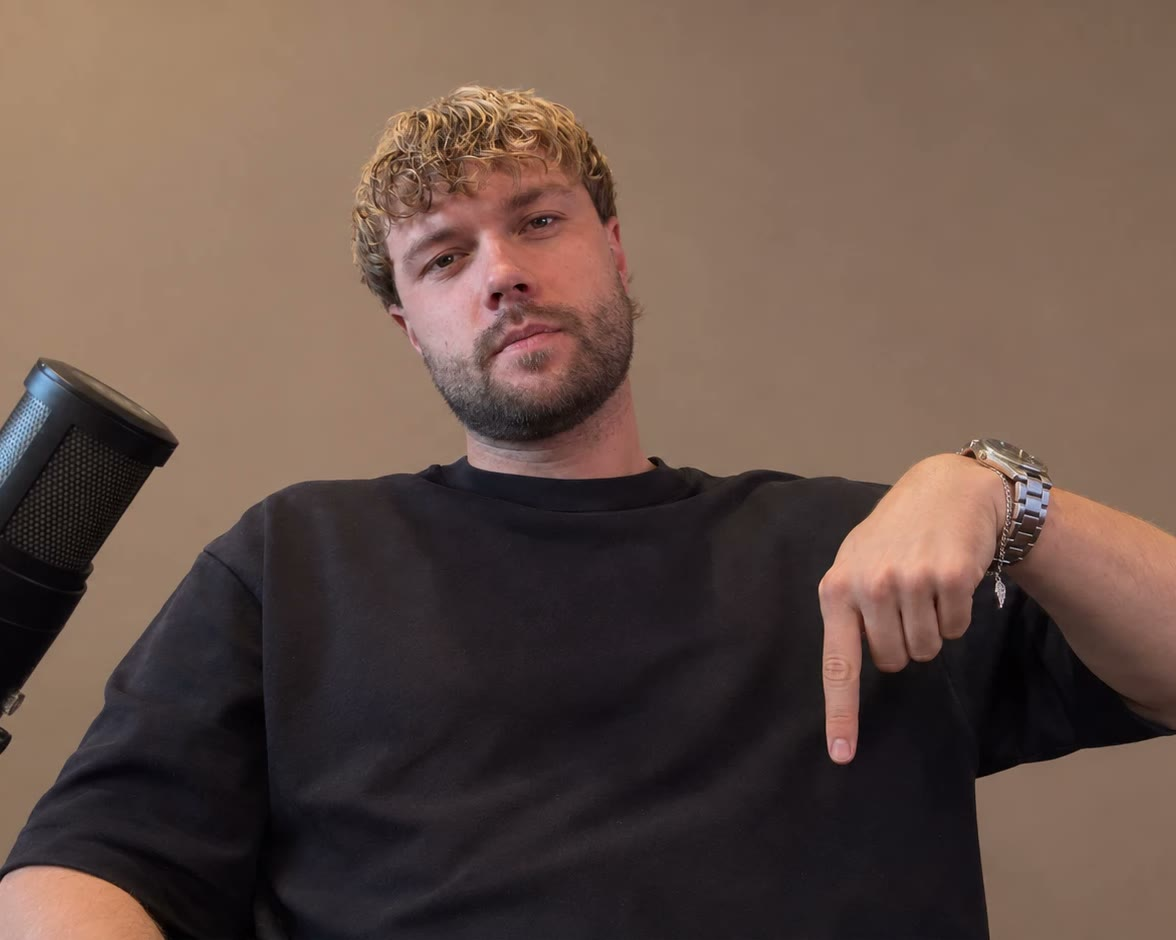
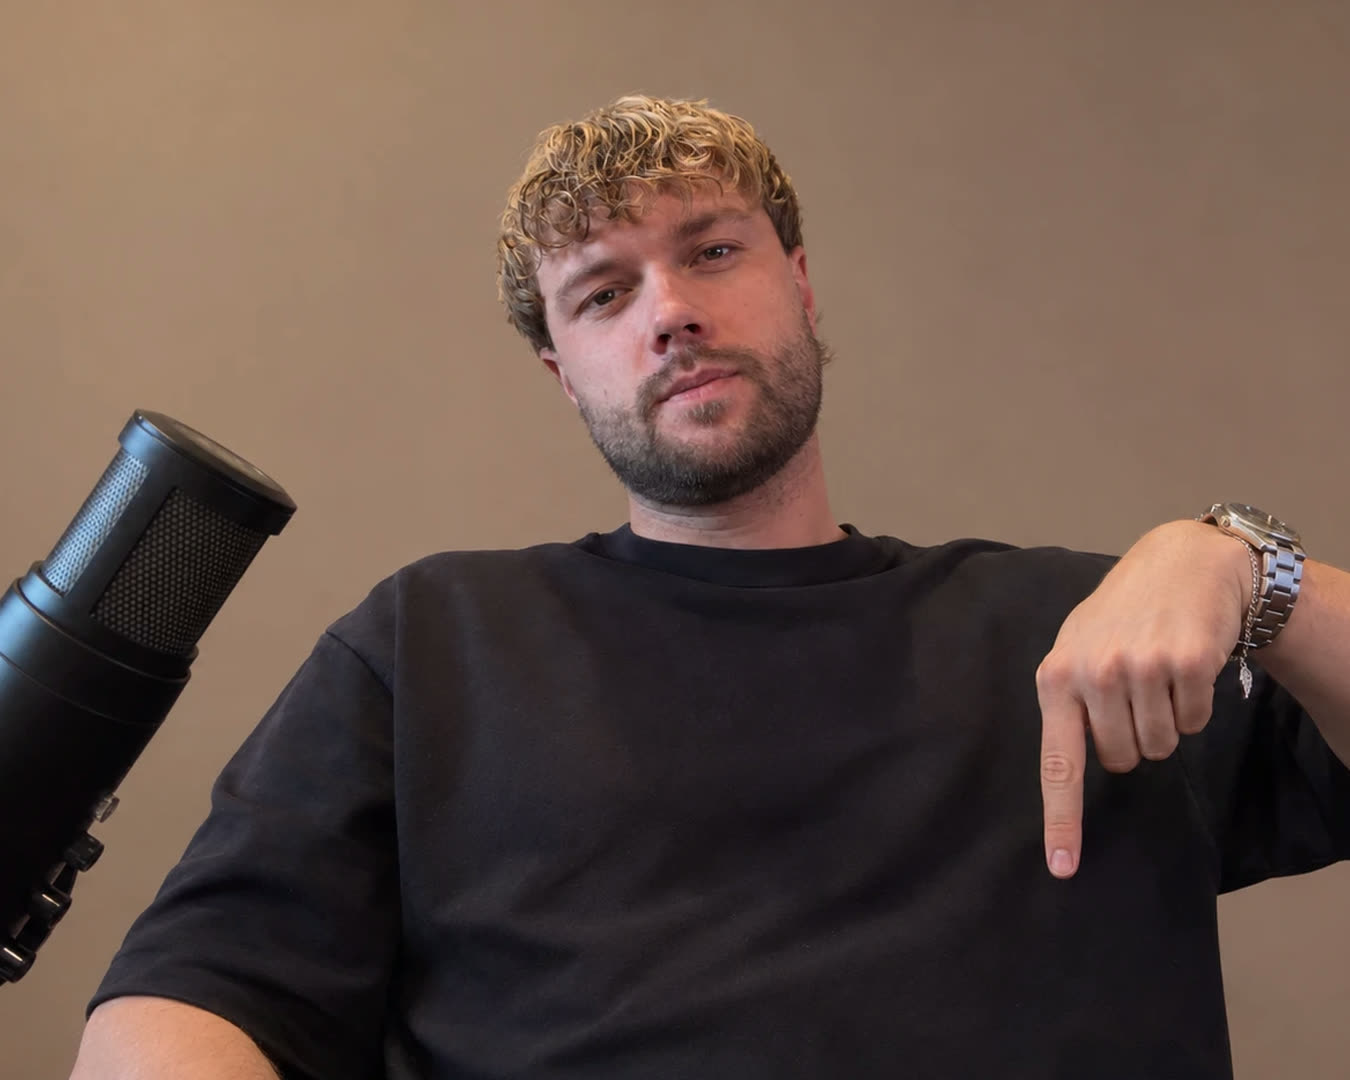
Homepage-video: witte pilknop (Speel video af -> Neem contact op), nieuwe startfoto, partnerlogo's als slider

Changed region(s): [[0.0, 0.0617, 1.0, 1.0], [0.3673, 0.9564, 0.4286, 0.9872]]

diff --git a/proposal/header-algemeen.css b/proposal/header-algemeen.css
@@ -49,8 +49,14 @@ html:root .sn-site .sn-alg .sn-alg-foto figcaption strong{font-family:'TT Norms'
 
 
 /* Samenwerkingen onder de titel, in kleur. */
-html:root .sn-site .sn-alg .sn-alg-keur{display:flex;flex-wrap:wrap;align-items:center;gap:14px 28px;margin:22px 0 0;padding:0;list-style:none}
+/* 25 november 2026 (Marinus): "Kan dit een slider zijn?" De logo's lopen als band; bij hover staat hij stil. */
+html:root .sn-site .sn-alg .sn-alg-keur,.sn-alg-keur{display:block;margin:22px 0 0;padding:0;overflow:hidden}
+.sn-alg-keur-baan{display:flex;align-items:center;width:max-content;margin:0;padding:0;list-style:none;animation:sn-alg-keur-loop 24s linear infinite}
+.sn-alg-keur:hover .sn-alg-keur-baan{animation-play-state:paused}
+.sn-alg-keur-baan li{flex:none;margin-right:48px}
 .sn-alg-keur img{display:block;height:26px;width:auto;max-width:150px;object-fit:contain}
+@keyframes sn-alg-keur-loop{to{transform:translateX(calc(-100% / 3))}}
+@media(prefers-reduced-motion:reduce){.sn-alg-keur-baan{animation:none;flex-wrap:wrap;width:auto;row-gap:14px}.sn-alg-keur-baan li[aria-hidden="true"]{display:none}}
 html:root .sn-site .sn-alg .sn-alg-uitleg strong{display:block;margin-bottom:6px;font-size:clamp(19px,1.7vw,24px);font-weight:600;line-height:1.3;color:#fff}
 .sn-alg-knop-video{position:absolute;right:16px;bottom:18px;display:inline-flex;align-items:center;gap:8px;min-height:42px;padding:0 18px;border:0;border-radius:999px;background:#fff;color:#000;font:inherit;font-size:14px;font-weight:700;cursor:pointer;box-shadow:0 8px 24px #0008;transition:transform .2s}
 .sn-alg-knop-video:hover{transform:scale(1.04)}
@@ -100,25 +106,33 @@ html:root .sn-site .sn-alg .sn-alg-uitleg strong{display:block;margin-bottom:6px
 
 /* 25 november 2026, avond (Marinus): afspeelknop onder de video, even breed, en na de klik een groene veeg naar "Plan een call". */
 .sn-alg-filmblok{display:flex;flex-direction:column;gap:12px;min-width:0}
-.sn-alg-filmknop{position:relative;display:block;width:100%;height:64px;overflow:hidden;isolation:isolate;border-radius:16px;border:1px solid var(--a-lijn);background:#0b0e0d;color:#fff;text-decoration:none;font-size:18px;font-weight:700;cursor:pointer;
-  transition:border-color .5s ease,box-shadow .6s ease,transform .2s ease}
-.sn-alg-filmknop:hover{transform:translateY(-1px);border-color:#25d36680}
-.sn-alg-filmknop:focus-visible{outline:2px solid #fff;outline-offset:3px}
-/* de vulling: groen veegt van links naar rechts over de knop, met een lichte glans die er achteraan schuift */
-.sn-alg-filmknop::before{content:"";position:absolute;inset:0;z-index:-1;background:linear-gradient(100deg,#1fb85a 0%,#25d366 55%,#3ae27c 100%);transform:scaleX(0);transform-origin:0 50%;transition:transform .75s cubic-bezier(.7,0,.2,1)}
-.sn-alg-filmknop::after{content:"";position:absolute;top:0;bottom:0;left:0;width:38%;z-index:-1;background:linear-gradient(100deg,transparent,#ffffff59,transparent);transform:translateX(-120%);opacity:0}
-.sn-alg-filmknop[data-stand="call"]::before{transform:scaleX(1)}
-.sn-alg-filmknop[data-stand="call"]::after{animation:sn-alg-glans 1s .55s cubic-bezier(.4,0,.2,1) both}
-.sn-alg-filmknop[data-stand="call"]{border-color:#25d366;animation:sn-alg-klop 1.6s 1.1s ease-out both}
-@keyframes sn-alg-glans{0%{opacity:1;transform:translateX(-120%)}100%{opacity:1;transform:translateX(320%)}}
-@keyframes sn-alg-klop{0%{box-shadow:0 0 0 0 #25d36680}70%{box-shadow:0 0 0 16px #25d36600}100%{box-shadow:0 0 0 0 #25d36600}}
-/* de labels: Bekijk de video schuift omhoog weg, Plan een call komt van onder in (witte tekst op groen) */
-.sn-alg-filmknop .lb{position:absolute;inset:0;display:flex;align-items:center;justify-content:center;gap:12px;transition:transform .6s cubic-bezier(.7,0,.2,1),opacity .45s ease}
-.sn-alg-filmknop .lb svg{flex:none}
-.sn-alg-filmknop .lb-video svg{fill:#25d366;color:#25d366}
-.sn-alg-filmknop .lb-call{transform:translateY(110%);opacity:0;color:#fff}
-.sn-alg-filmknop .lb-call .pijl{transition:transform .3s ease}
-.sn-alg-filmknop:hover .lb-call .pijl{transform:translate(2px,-2px)}
+.sn-alg-filmknop{position:relative;display:flex;align-items:center;justify-content:space-between;gap:12px;width:100%;height:58px;padding:5px 5px 5px 28px;overflow:hidden;isolation:isolate;border-radius:999px;border:2px solid #fff;background:#0b0e0d;color:#fff;text-decoration:none;font-family:'Inter',sans-serif;font-size:13px;font-weight:800;letter-spacing:.12em;text-transform:uppercase;cursor:pointer;
+  transition:color .35s ease,border-color .7s ease}
+.sn-alg-filmknop:focus-visible{outline:2px solid #fff;outline-offset:4px}
+/* wit vult bij hover van links naar rechts (zoals de groene pil) */
+.sn-alg-filmknop::before{content:"";position:absolute;inset:0;z-index:-1;border-radius:inherit;background:#fff;transform:translateX(-101%);transition:transform .5s cubic-bezier(.23,1,.32,1)}
+.sn-alg-filmknop:is(:hover,:focus-visible)::before{transform:translateX(0)}
+.sn-alg-filmknop[data-stand="video"]:is(:hover,:focus-visible){color:#0b0e0d}
+/* na de klik: groen komt van rechts naar links, het wit trekt zich tegelijk terug */
+.sn-alg-filmknop::after{content:"";position:absolute;inset:0;z-index:-1;border-radius:inherit;background:#25d366;transform:translateX(101%);transition:transform .85s cubic-bezier(.7,0,.2,1)}
+.sn-alg-filmknop[data-stand="call"]::after{transform:translateX(0)}
+.sn-alg-filmknop[data-stand="call"]::before{transform:translateX(-101%);transition:transform .85s cubic-bezier(.7,0,.2,1)}
+.sn-alg-filmknop[data-stand="call"]{border-color:#25d366;color:#fff}
+/* tekst: Speel video af schuift omhoog weg, Neem contact op komt van onder */
+.sn-alg-filmknop .tekst{position:relative;flex:1;height:100%;min-width:0}
+.sn-alg-filmknop .lb{position:absolute;inset:0;display:flex;align-items:center;white-space:nowrap;transition:transform .6s cubic-bezier(.7,0,.2,1),opacity .4s ease}
+.sn-alg-filmknop .lb-call{transform:translateY(110%);opacity:0}
 .sn-alg-filmknop[data-stand="call"] .lb-video{transform:translateY(-110%);opacity:0}
-.sn-alg-filmknop[data-stand="call"] .lb-call{transform:translateY(0);opacity:1;transition-delay:.28s}
-@media(prefers-reduced-motion:reduce){.sn-alg-filmknop,.sn-alg-filmknop::before,.sn-alg-filmknop .lb{transition:none}.sn-alg-filmknop[data-stand="call"],.sn-alg-filmknop[data-stand="call"]::after{animation:none}}
+.sn-alg-filmknop[data-stand="call"] .lb-call{transform:translateY(0);opacity:1;transition-delay:.3s}
+/* rond icoon rechts: wit met donker afspeelteken, bij hover donker; na de klik wit met groene pijl, zoals Website-actie */
+.sn-alg-filmknop .rond{position:relative;display:grid;place-items:center;flex:none;width:44px;height:44px;border-radius:50%;background:#fff;color:#0b0e0d;transition:background-color .35s ease,color .35s ease}
+.sn-alg-filmknop[data-stand="video"]:is(:hover,:focus-visible) .rond{background:#0b0e0d;color:#fff}
+.sn-alg-filmknop[data-stand="call"] .rond{background:#fff;color:#25d366}
+.sn-alg-filmknop .ic{position:absolute;transition:transform .6s cubic-bezier(.7,0,.2,1),opacity .35s ease}
+.sn-alg-filmknop .ic-video{fill:currentColor;margin-left:2px}
+.sn-alg-filmknop .ic-call{transform:scale(.4) rotate(-45deg);opacity:0}
+.sn-alg-filmknop[data-stand="call"] .ic-video{transform:scale(.4) rotate(45deg);opacity:0}
+.sn-alg-filmknop[data-stand="call"] .ic-call{transform:none;opacity:1;transition-delay:.35s}
+.sn-alg-filmknop[data-stand="call"]:hover .ic-call{transform:translate(2px,-2px)}
+@media(max-width:560px){.sn-alg-filmknop{height:54px;padding-left:22px;font-size:12px}.sn-alg-filmknop .rond{width:42px;height:42px}}
+@media(prefers-reduced-motion:reduce){.sn-alg-filmknop,.sn-alg-filmknop::before,.sn-alg-filmknop::after,.sn-alg-filmknop .lb,.sn-alg-filmknop .ic{transition:none}}

diff --git a/proposal/HeaderAlgemeen.tsx b/proposal/HeaderAlgemeen.tsx
@@ -1,6 +1,6 @@
 import React, { useEffect, useRef, useState } from "react";
 import { Link } from "react-router-dom";
-import { ArrowUpRight, CalendarDays, Play } from "lucide-react";
+import { ArrowUpRight, Play } from "lucide-react";
 import { boekingsPlannerUrl } from "./PlanCall";
 import { CRAFTURE, DIRECT, VIA_CRAFTURE, merk } from "./ExplainerPlayer";
 import "./header-algemeen.css";
@@ -44,9 +44,13 @@ const FILM_POSTER = "/video/explainer/socialnow-explainer-5x4-thumb.jpg";
 // (HomeEnthousiast.tsx) de enige h1 "Een betrouwbare partner voor groei en cybersecurity." houdt.
 // Ook gebruikt in de homepage-hero (HomeEnthousiast.tsx), onder de knoppen.
 export function PartnerLogos() {
-  return <ul className="sn-alg-keur" aria-label="Partners en specialiteiten">
-    {KEURMERKEN.map(k => <li key={k.naam}><img src={k.src} alt={k.naam} title={k.naam} /></li>)}
-  </ul>;
+  // 25 november 2026 (Marinus): "Kan dit een slider zijn?" De logo's lopen als band; drie gelijke sets, de band schuift één set op.
+  return <div className="sn-alg-keur" role="region" aria-label="Partners en specialiteiten">
+    <ul className="sn-alg-keur-baan">
+      {[0, 1, 2].flatMap(set => KEURMERKEN.map(k => <li key={`${set}-${k.naam}`} aria-hidden={set > 0 || undefined}>
+        <img src={k.src} alt={set > 0 ? "" : k.naam} title={k.naam} /></li>))}
+    </ul>
+  </div>;
 }
 
 // 12 november 2026 (Marinus): "Begin altijd met deze foto": de wissel start met het team bij het Atomium.
@@ -92,7 +96,14 @@ export function AtomiumFoto() {
   };
 
   const knop = (e: React.MouseEvent<HTMLAnchorElement>) => {
-    if (gestart) return;          // tweede klik: gewoon naar de afsprakenplanner
+    if (gestart) {                // tweede klik: naar het contactblok op deze pagina, anders gewoon naar de afsprakenplanner
+      const doel = document.getElementById("contact");
+      if (!doel) return;
+      e.preventDefault();
+      doel.scrollIntoView({ behavior: "smooth", block: "center" });
+      doel.focus({ preventScroll: true });
+      return;
+    }
     e.preventDefault();
     zetGestart(true);
     wissel();
@@ -118,10 +129,15 @@ export function AtomiumFoto() {
       <video ref={film} className="sn-alg-film" src={FILM} poster={FILM_POSTER} playsInline preload="metadata" aria-label="Explainer: dit is SocialNow" aria-hidden={!filmAan}
         onClick={wissel} onPlay={() => zetSpeelt(true)} onPause={() => zetSpeelt(false)} onEnded={klaar} />
     </figure>
+    {/* 25 november 2026, avond (Marinus): de pil zoals Website-actie, maar wit. Hover vult wit; na de klik trekt het wit terug en
+        veegt groen van rechts naar links erover, en Speel video af wordt Neem contact op. */}
     <a className="sn-alg-filmknop" href={boekingsPlannerUrl} onClick={knop} data-stand={gestart ? "call" : "video"}
-      aria-label={gestart ? "Plan een call" : "Bekijk de video"}>
-      <span className="lb lb-video" aria-hidden="true"><Play size={17} />Bekijk de video</span>
-      <span className="lb lb-call" aria-hidden="true"><CalendarDays size={18} />Plan een call<ArrowUpRight size={18} className="pijl" /></span>
+      aria-label={gestart ? "Neem contact op" : "Speel video af"}>
+      <span className="tekst" aria-hidden="true">
+        <span className="lb lb-video">Speel video af</span>
+        <span className="lb lb-call">Neem contact op</span>
+      </span>
+      <span className="rond" aria-hidden="true"><Play size={16} className="ic ic-video" /><ArrowUpRight size={18} className="ic ic-call" /></span>
     </a>
     </div>
   );
